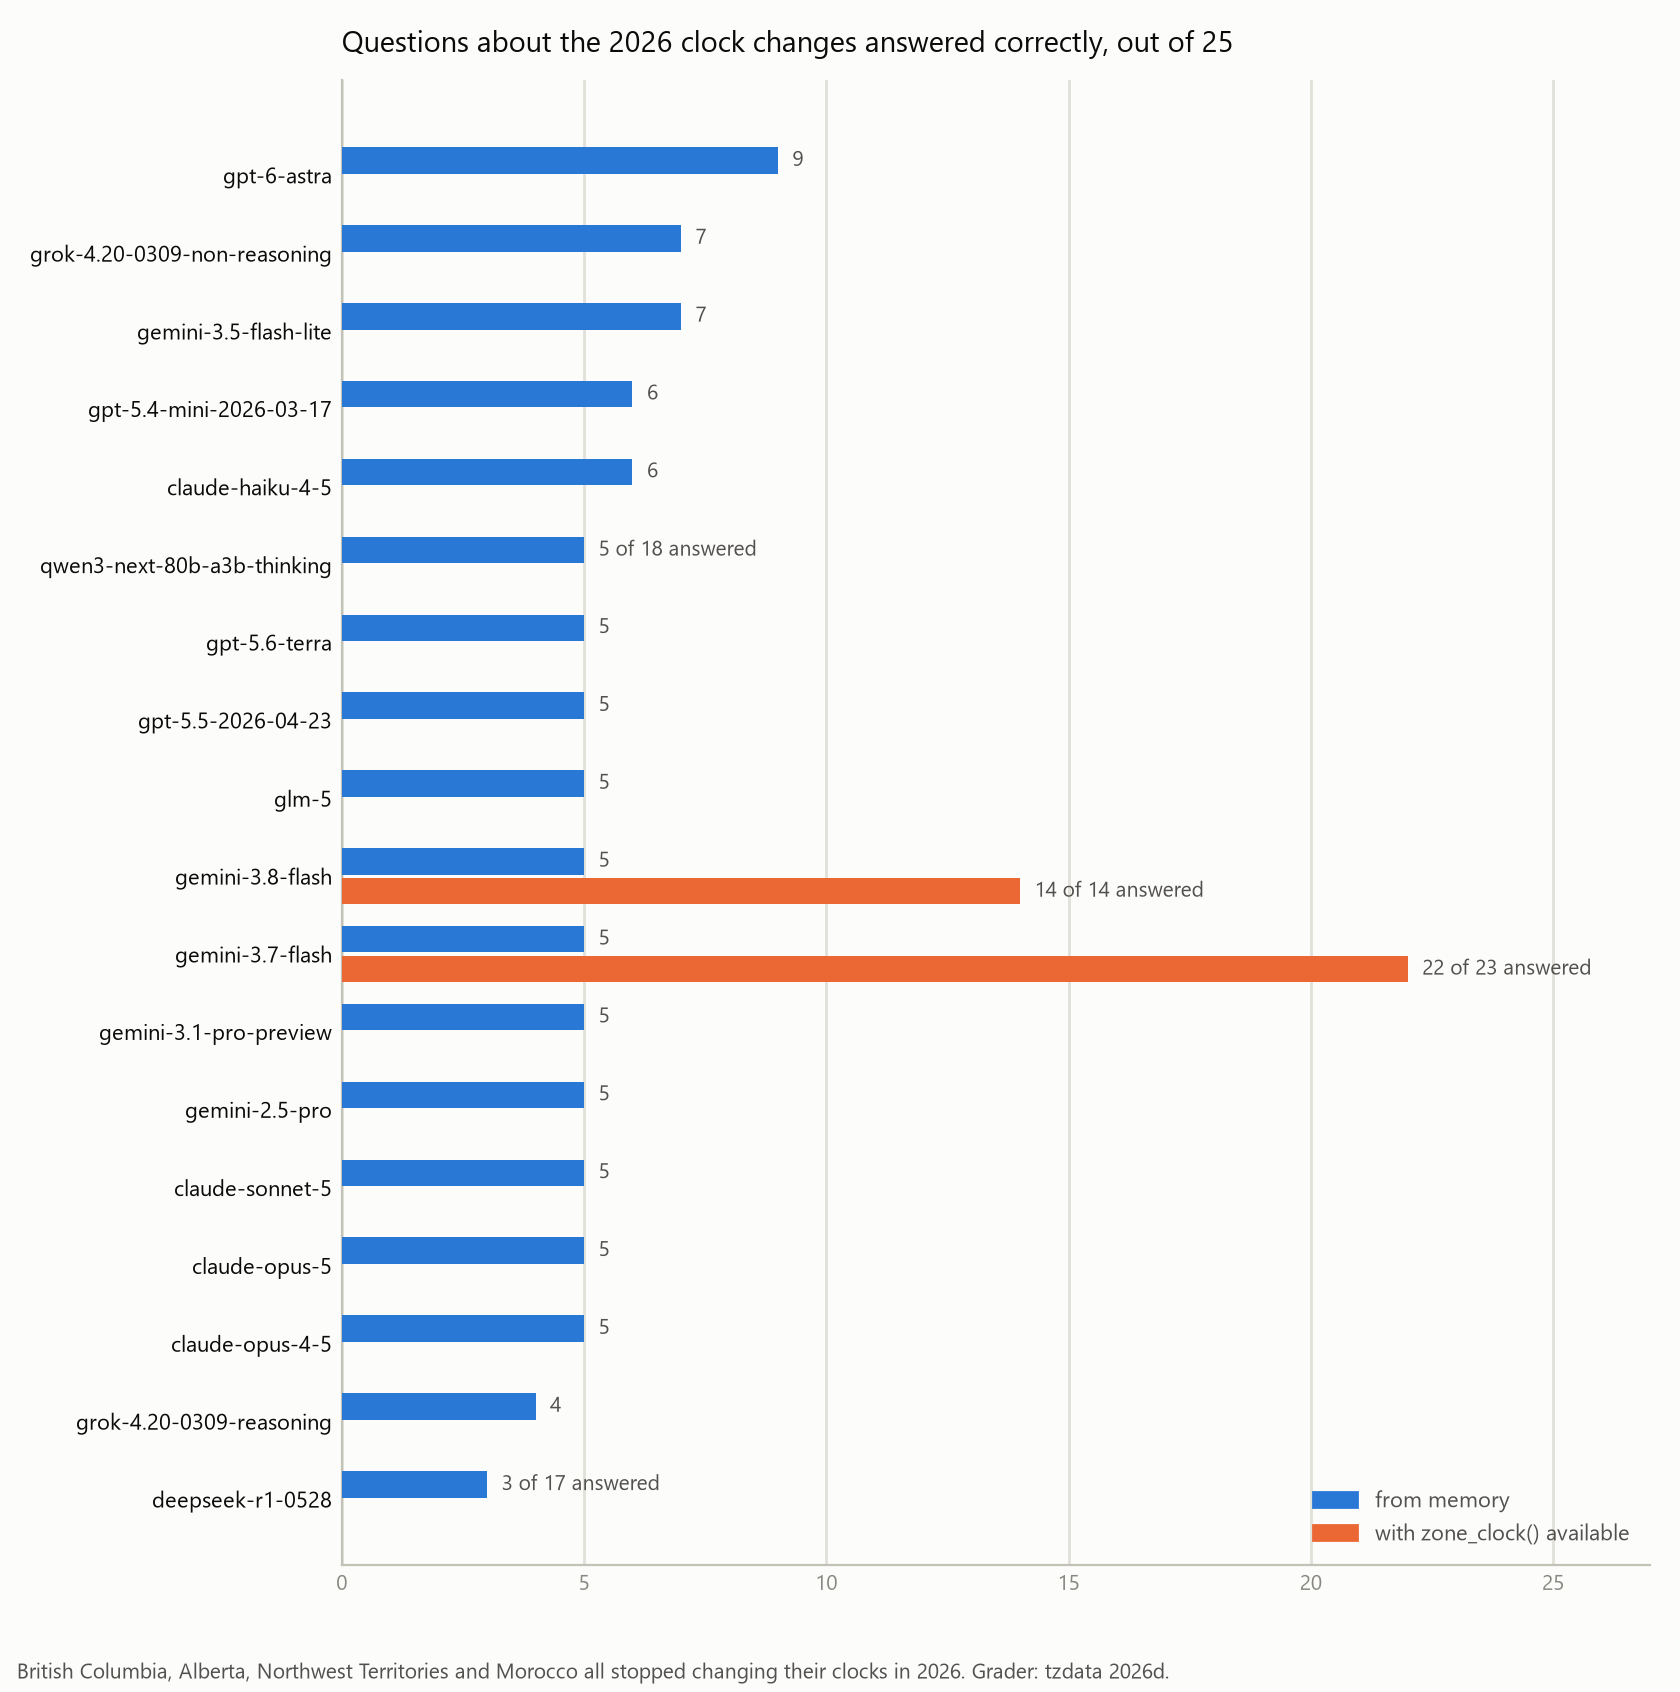
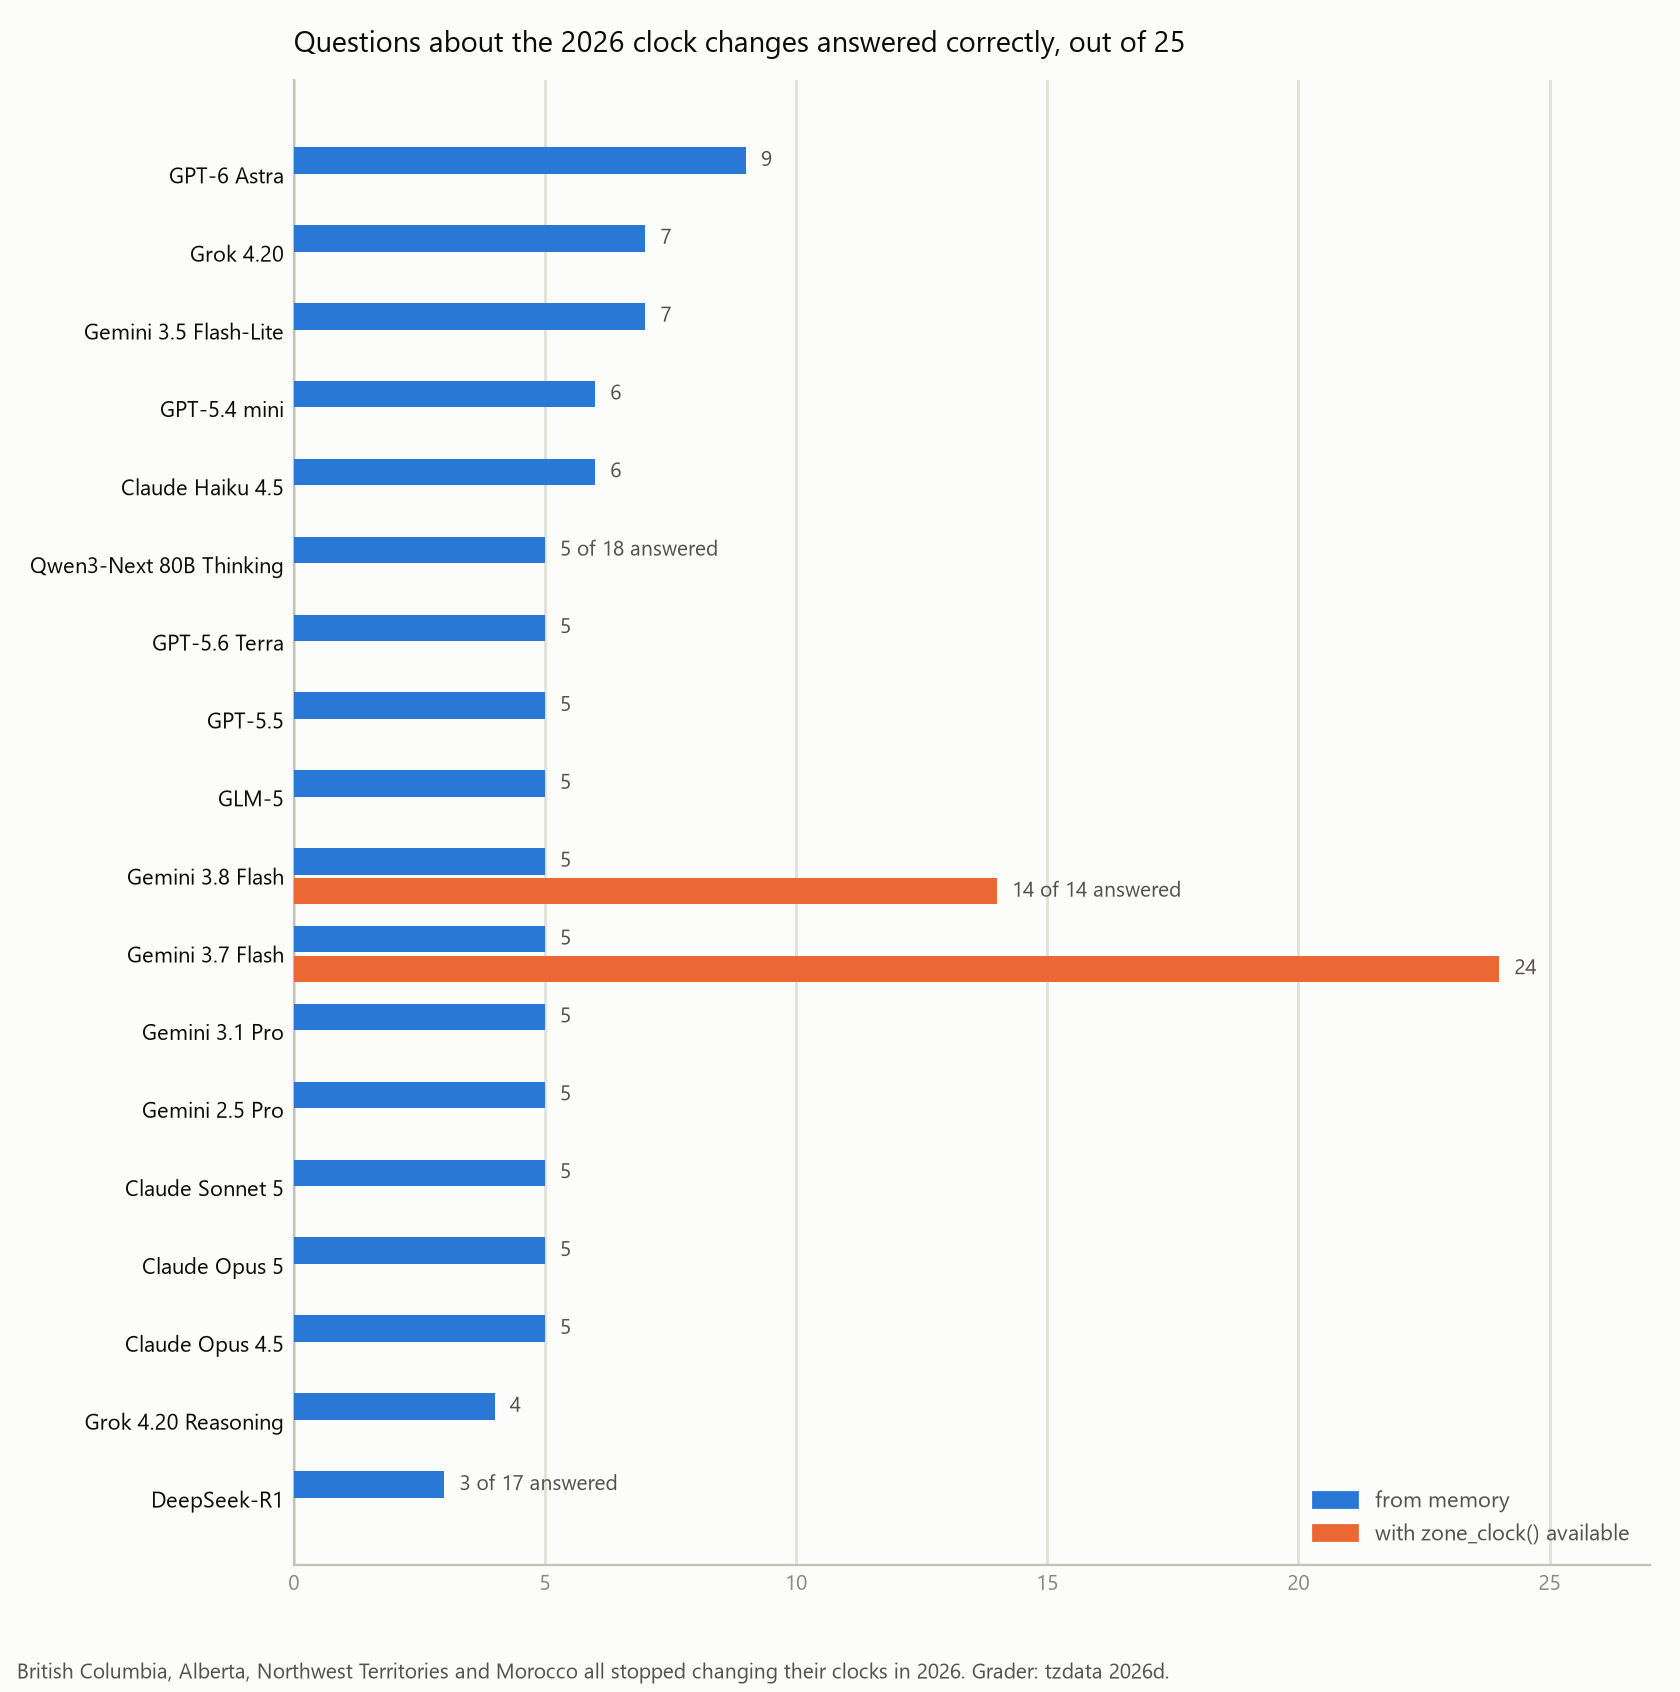
Label the charts with the post's model names; link the post's sources; score the version 3 tool run
The ladder and wave charts now use the same display names as the post's tables. The post links the Alberta, Northwest Territories, Morocco and Manitoba announcements, the CBC story, Microsoft's interim guidance and the Test of Time paper, all checked today. Gemini 3.7 Flash's version 3 tool run (120 of 122, no errors) replaces the version 1 run in the results.

diff --git a/analysis/plot_ladder.py b/analysis/plot_ladder.py
@@ -21,9 +21,12 @@ import matplotlib
 matplotlib.use("Agg")
 import matplotlib.pyplot as plt  # noqa: E402
 
+sys.path.insert(0, str(Path(__file__).resolve().parent))
+from render_tables import display  # noqa: E402
+
 ROOT = Path(__file__).resolve().parent.parent
 SUMMARY = json.loads((ROOT / "results" / "summary.json").read_text(encoding="utf-8"))
-INDEX = json.loads((ROOT / "tzhist" / "releases" / "index.json").read_text())
+INDEX = json.loads((ROOT / "tzhist" / "releases" / "index.json").read_text(encoding="utf-8"))
 RELEASES = sorted(INDEX, key=lambda v: tuple(int(x) for x in v.split(".")))
 IANA = [INDEX[v]["iana"] for v in RELEASES]
 
@@ -105,7 +108,7 @@ def main() -> None:
             best = max(y)
             k = max(idx for idx, val in enumerate(y) if val == best)  # latest release tied at the peak
             ax.scatter([k], [y[k]], s=64, color=colour, edgecolors=SURFACE, linewidths=2, zorder=4)
-            names = ", ".join(short(m["model"]) for m in members)
+            names = ", ".join(display(m["model"]) for m in members)
             label = f"{names}: {IANA[k]}"
             xe = x[-1]
             if abs(ly - y[-1]) > 0.1:

diff --git a/analysis/plot_wave.py b/analysis/plot_wave.py
@@ -22,6 +22,9 @@ matplotlib.use("Agg")
 import matplotlib.pyplot as plt  # noqa: E402
 from matplotlib.patches import Patch  # noqa: E402
 
+sys.path.insert(0, str(Path(__file__).resolve().parent))
+from render_tables import DISPLAY  # noqa: E402
+
 ROOT = Path(__file__).resolve().parent.parent
 SUMMARY = json.loads((ROOT / "results" / "summary.json").read_text(encoding="utf-8"))
 
@@ -77,7 +80,7 @@ def main() -> None:
             ax.text(t + 0.3, i - (bar_h + gap) / 2, label(fam_t), va="center", ha="left", fontsize=7.5, color=INK2)
 
     ax.set_yticks(range(len(names)))
-    ax.set_yticklabels(names, fontsize=8, color=INK)
+    ax.set_yticklabels([DISPLAY.get(n, n) for n in names], fontsize=8, color=INK)
     ax.set_xlim(0, total + 2)
     ax.set_xticks([0, 5, 10, 15, 20, total])
     ax.set_xticklabels([str(t) for t in [0, 5, 10, 15, 20, total]], fontsize=7.5, color=MUTED)

diff --git a/check_claims.py b/check_claims.py
@@ -313,7 +313,8 @@ def check_results() -> None:
         if not r["graded_total"]:
             continue
         name = re.escape(display(r["model"]))
-        expect(rf"{name}[^.\n|]{{0,80}}?\b<N> of {r['graded_total']}\b", r["graded_correct"], required=False)
+        # "X went from A to B of N" is the tool sentence, checked separately below.
+        expect(rf"{name}(?:(?!went from)[^.\n|]){{0,80}}?\b<N> of {r['graded_total']}\b", r["graded_correct"], required=False)
 
     # With the tool.
     for t in tool:

diff --git a/results/summary.md b/results/summary.md
@@ -21,7 +21,7 @@
 | xai/grok-4.20-0309-non-reasoning | memory | 79/122 | 64.8% | 2022b (2022-08-10) to 2022d (2022-09-23) | 33/46 | 2025-09-01 | yes (wrong) |
 | anthropic/claude-haiku-4-5@20251001 | memory | 69/122 | 56.6% | 2022b (2022-08-10) to 2022d (2022-09-23) | 37/46 | 2025-02 | yes (wrong) |
 | google/gemini-3.8-flash | tool | 110/111 | 99.1% | current (2026d) | 34/35 | 2026-03 | n/a |
-| google/gemini-3.7-flash | tool | 118/120 | 98.3% | current (2026d) | 42/44 | 2026-03 | n/a |
+| google/gemini-3.7-flash | tool | 120/122 | 98.4% | current (2026d) | 44/46 | 2026-03 | no (right) |
 
 ## Accuracy by family
 
@@ -46,7 +46,7 @@
 | xai/grok-4.20-0309-non-reasoning | memory | 19/22 | 24/26 | 14/31 | 15/18 | 7/25 |
 | anthropic/claude-haiku-4-5@20251001 | memory | 17/22 | 24/26 | 9/31 | 13/18 | 6/25 |
 | google/gemini-3.8-flash | tool | 22/22 | 26/26 | 30/31 | 18/18 | 14/14 |
-| google/gemini-3.7-flash | tool | 22/22 | 26/26 | 30/31 | 18/18 | 22/23 |
+| google/gemini-3.7-flash | tool | 22/22 | 26/26 | 30/31 | 18/18 | 24/25 |
 
 ## Manitoba (announced, not yet in tzdata)
 
@@ -103,6 +103,6 @@
 - google/gemini-3.8-flash [tool] offset:winnipeg:2026-11-15:12:00: model {"utc_offset": "-06:00"}; tzdata 2026d {"utc_offset": "-06:00"}; official {"utc_offset": "-05:00"}. Note: Standard time (Central Standard Time, CST) is in effect following the end of daylight saving time on the first Sunday in November.
 - google/gemini-3.8-flash [tool] change_day:winnipeg:2026-11-01: model {"changes": true, "direction": "back"}; tzdata 2026d {"changes": true, "direction": "back"}; official {"changes": false, "direction": "none"}. Note: Clocks in Winnipeg fall back by one hour on November 1, 2026, marking the end of daylight saving time.
 - google/gemini-3.8-flash [tool] convert:winnipeg:toronto:2026-11-15:09:00: model {"date": "2026-11-15", "time": "10:00"}; tzdata 2026d {"date": "2026-11-15", "time": "10:00"}; official {"date": "2026-11-15", "time": "09:00"}. Note: Winnipeg was at UTC-06:00 (CST) and Toronto was at UTC-05:00 (EST).
-- google/gemini-3.7-flash [tool] offset:winnipeg:2026-11-15:12:00: model {"utc_offset": "-06:00"}; tzdata 2026d {"utc_offset": "-06:00"}; official {"utc_offset": "-05:00"}. Note: Winnipeg observes Central Standard Time (UTC-6) as standard time following the end of daylight saving time on the first Sunday of November.
-- google/gemini-3.7-flash [tool] change_day:winnipeg:2026-11-01: model {"changes": true, "direction": "back"}; tzdata 2026d {"changes": true, "direction": "back"}; official {"changes": false, "direction": "none"}. Note: Clocks in Winnipeg fall back by one hour on November 1, 2026, marking the end of Daylight Saving Time.
-- google/gemini-3.7-flash [tool] convert:winnipeg:toronto:2026-11-15:09:00: model {"date": "2026-11-15", "time": "10:00"}; tzdata 2026d {"date": "2026-11-15", "time": "10:00"}; official {"date": "2026-11-15", "time": "09:00"}. Note: Winnipeg is observed at UTC-6 (CST) and Toronto is observed at UTC-5 (EST).
+- google/gemini-3.7-flash [tool] offset:winnipeg:2026-11-15:12:00: model {"utc_offset": "-06:00"}; tzdata 2026d {"utc_offset": "-06:00"}; official {"utc_offset": "-05:00"}. Note: Winnipeg observes Central Standard Time (UTC-6) during standard time following the end of Daylight Saving Time on the first Sunday in November.
+- google/gemini-3.7-flash [tool] change_day:winnipeg:2026-11-01: model {"changes": true, "direction": "back"}; tzdata 2026d {"changes": true, "direction": "back"}; official {"changes": false, "direction": "none"}. Note: Clocks in Winnipeg fall back by one hour at 2:00 AM on November 1, 2026, returning to Central Standard Time.
+- google/gemini-3.7-flash [tool] convert:winnipeg:toronto:2026-11-15:09:00: model {"date": "2026-11-15", "time": "10:00"}; tzdata 2026d {"date": "2026-11-15", "time": "10:00"}; official {"date": "2026-11-15", "time": "09:00"}. Note: Winnipeg observes Central Standard Time at UTC-6, while Toronto observes Eastern Standard Time at UTC-5.

diff --git a/POST.md b/POST.md
@@ -6,7 +6,7 @@ tags: devchallenge, kagglechallenge, ai, machinelearning
 
 *This is a submission for the [Kaggle Benchmarking Challenge](https://dev.to/challenges/kaggle-2026-09-23)*
 
-On June 18, Alberta passed the Official Time Act and stopped changing its clocks. British Columbia had done it in March. The Northwest Territories followed in August, Morocco went back to plain UTC on September 20, and on September 17 Manitoba announced it will not fall back on November 1 either. [CBC is running stories](https://www.cbc.ca/news/canada/calgary/alberta-permanent-daylight-savings-businesses-calendars-9.7331872) about a Calgary hairstylist whose winter bookings all moved an hour. [Microsoft published interim guidance](https://techcommunity.microsoft.com/blog/dstblog/interim-guidance-for-alberta-time-zone-changes-2026/4545015) for Windows.
+On June 18, Alberta's [Official Time Act](https://www.alberta.ca/albertas-new-time-system-abt) came into force and the province stopped changing its clocks. British Columbia had done it in March. The [Northwest Territories followed in August](https://www.gov.nt.ca/en/newsroom/northwest-territories-ends-seasonal-time-change), [Morocco went back to plain UTC on September 20](https://www.timeanddate.com/news/time/morocco-abolish-dst.html), and on September 17 [Manitoba announced](https://news.gov.mb.ca/news/index.html?item=75397) it will not fall back on November 1 either. [CBC is running stories](https://www.cbc.ca/news/canada/calgary/alberta-permanent-daylight-savings-businesses-calendars-9.7331872) about a Calgary hairstylist whose winter bookings all moved an hour. [Microsoft published interim guidance](https://techcommunity.microsoft.com/blog/dstblog/interim-guidance-for-alberta-time-zone-changes-2026/4545015) for Windows.
 
 So I asked the question someone in Calgary is asking right now. It is 9 a.m. here on November 15. What time is that in Toronto?
 
@@ -93,7 +93,7 @@ The peak height matters as much as its position. A model at 46 of 46 has a sharp
 
 ### With the tool
 
-[TOOL RESULTS PENDING: the tool lineup is running. This section will report, for each model, the score with `zone_clock()` available, how many of the 122 cases it chose to call the tool on, and the cases where it called the tool and overrode the answer. Verified so far from the two Gemini runs that have finished: Gemini 3.7 Flash went from 99 to 118 of 120 and called the tool on every case. Its two misses: on Coyhaique it asked the tool about America/Santiago instead of America/Coyhaique and got Santiago's winter offset; on Casablanca in December it asked the tool about Africa/Casablanca six times, was told +00:00 each time, and answered +01:00 with the note "Under Moroccan Decree 2.18.855, Morocco permanently observes UTC+01:00 year-round outside the month of Ramadan." On Calgary it got -06:00 right and labelled it "Central Standard Time". Gemini 3.8 Flash went from 99 to 110 of 111.]
+[TOOL RESULTS PENDING: the tool lineup is running. This section will report, for each model, the score with `zone_clock()` available, how many of the 122 cases it chose to call the tool on, and the cases where it called the tool and overrode the answer. Verified so far from the two Gemini runs that have finished: Gemini 3.7 Flash went from 99 to 120 of 122. Its two misses: on Coyhaique it asked the tool about America/Santiago instead of America/Coyhaique and got Santiago's winter offset; on Calgary to Toronto it answered 11:00 from memory. Gemini 3.8 Flash went from 99 to 110 of 111.]
 
 ### Manitoba, which nobody can know yet
 

diff --git a/results/quotes_tool.md b/results/quotes_tool.md
@@ -1,0 +1,29 @@
+
+### change_day:calgary:2026-11-01
+ok gemini-3.7-flash             {"changes": false, "direction": "none"}  Clocks in Calgary do not change on 2026-11-01.
+
+### offset:calgary:2026-11-15:12:00
+ok gemini-3.7-flash             {"utc_offset": "-06:00"}                 On November 15, 2026, Calgary, Alberta observes Central Standard Time (UTC-06:00) without daylight saving time.
+ok gemini-3.8-flash             {"utc_offset": "-06:00"}                 Calgary observes Central Standard Time (UTC-06:00) following Alberta's transition to permanent standard time at UTC-06:00 without daylight saving time.
+
+### offset:vancouver:2026-12-15:12:00
+ok gemini-3.7-flash             {"utc_offset": "-07:00"}                 On December 15, 2026, Vancouver, British Columbia observes Mountain Standard Time (UTC-7) following permanent year-round daylight time adoption.
+ok gemini-3.8-flash             {"utc_offset": "-07:00"}                 Under the tzdata rules for America/Vancouver in 2026, British Columbia observes permanent Mountain Standard Time (UTC-07:00) without daylight saving time in the winter of 2026.
+
+### offset:casablanca:2026-10-15:12:00
+ok gemini-3.7-flash             {"utc_offset": "+00:00"}                 Casablanca observes Western European Time (+00:00) according to the scheduled autumn time transition rule in the IANA time zone database.
+
+### change_day:casablanca:2026-09-20
+ok gemini-3.7-flash             {"changes": true, "direction": "back"}   Clocks in Casablanca fall back from UTC+1 to UTC+0 on September 20, 2026.
+
+### offset:coyhaique:2025-07-15:12:00
+X  gemini-3.7-flash             {"utc_offset": "-04:00"}                 Coyhaique observes mainland Chile standard time (America/Santiago) with a UTC offset of -04:00 during the winter months.
+X  gemini-3.8-flash             {"utc_offset": "-04:00"}                 Coyhaique follows continental Chile standard time, which observes UTC-04:00 during the southern hemisphere winter.
+
+### offset:almaty:2024-07-15:12:00
+ok gemini-3.7-flash             {"utc_offset": "+05:00"}                 Kazakhstan unified all regions into a single standard time zone of UTC+5 starting March 1, 2024, with no daylight saving time.
+ok gemini-3.8-flash             {"utc_offset": "+05:00"}                 Kazakhstan abolished UTC+6 and unified the entire country to a single UTC+5 time zone on March 1, 2024.
+
+### change_day:winnipeg:2026-11-01
+~  gemini-3.7-flash             {"changes": true, "direction": "back"}   Clocks in Winnipeg fall back by one hour at 2:00 AM on November 1, 2026, returning to Central Standard Time.
+~  gemini-3.8-flash             {"changes": true, "direction": "back"}   Clocks in Winnipeg fall back by one hour on November 1, 2026, marking the end of daylight saving time.

diff --git a/results/tables.md b/results/tables.md
@@ -122,12 +122,12 @@ Models scored from memory: 18. Put Calgary on Mountain Standard Time (-07:00) on
 
 | Model | From memory | With the tool | Cases where it called the tool | Total tool calls |
 |---|---|---|---|---|
-| Gemini 3.7 Flash | 99 | 118 of 120 | 120 of 120 | 217 |
+| Gemini 3.7 Flash | 99 | 120 | 122 of 122 | 230 |
 | Gemini 3.8 Flash | 99 | 110 of 111 | 111 of 111 | 201 |
 
 ## By family, with the tool
 
 | Model | Controls | Awkward offsets | Southern DST | Changes 2022 to 2025 | 2026 wave |
 |---|---|---|---|---|---|
-| gemini-3.7-flash | 26/26 | 22/22 | 18/18 | 30/31 | 22/23 |
+| gemini-3.7-flash | 26/26 | 22/22 | 18/18 | 30/31 | 24/25 |
 | gemini-3.8-flash | 26/26 | 22/22 | 18/18 | 30/31 | 14/14 |
